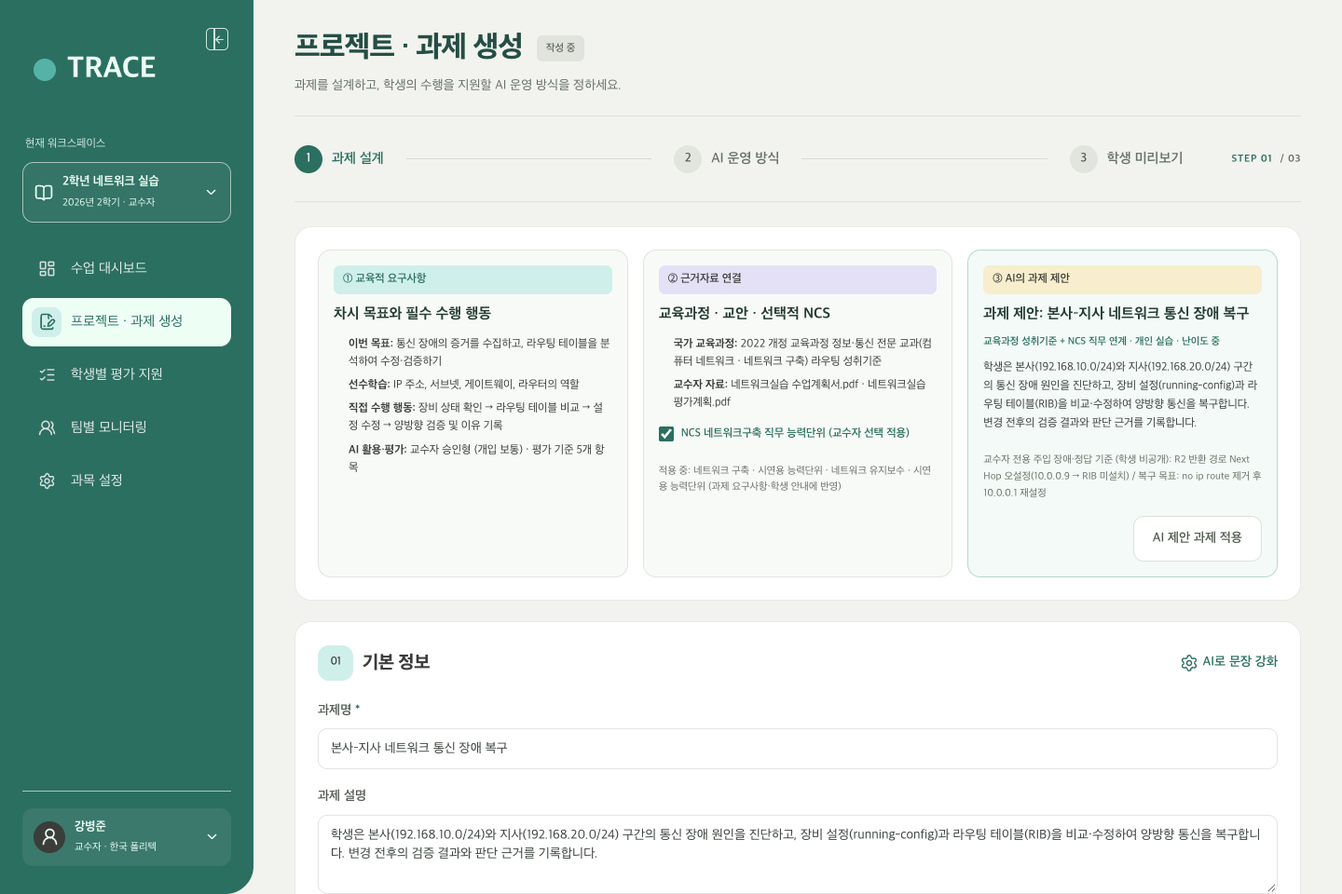
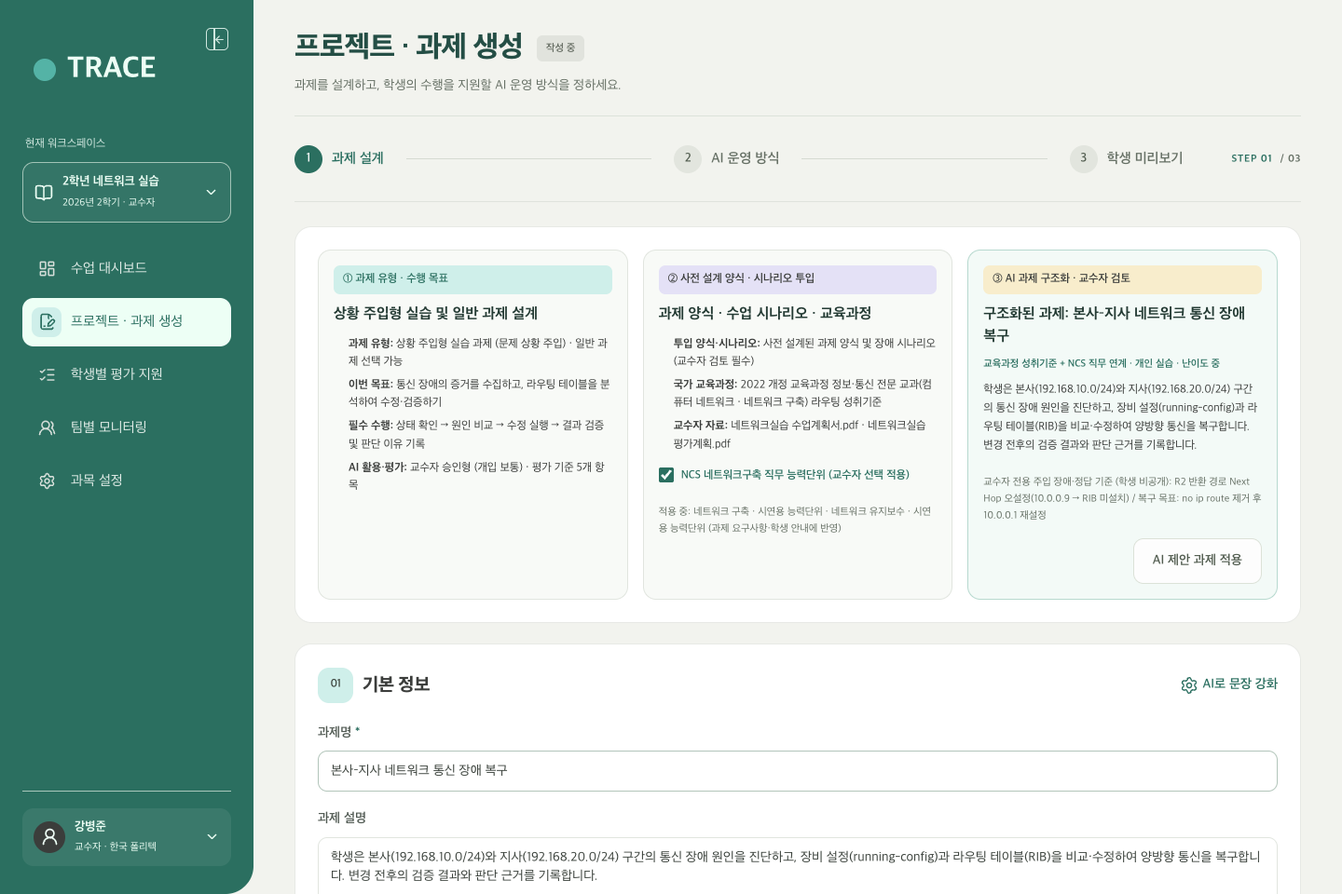
docs: update demo guide, screenshots, and assignment proposal panel UI

diff --git a/src/features/teacher/AssignmentProposalPanel.tsx b/src/features/teacher/AssignmentProposalPanel.tsx
@@ -61,17 +61,17 @@ export function AssignmentProposalPanel({
   return (
     <section className="panel design-triptych-panel" aria-label="차시 과제 설계 3단 요약">
       <div className="triptych-card">
-        <span className="teach-badge mint">① 교육적 요구사항</span>
-        <h3>차시 목표와 필수 수행 행동</h3>
+        <span className="teach-badge mint">① 과제 유형 · 수행 목표</span>
+        <h3>상황 주입형 실습 및 일반 과제 설계</h3>
         <ul className="triptych-list">
+          <li>
+            <strong>과제 유형:</strong> 상황 주입형 실습 과제 (문제 상황 주입) · 일반 과제 선택 가능
+          </li>
           <li>
             <strong>이번 목표:</strong> {lessonOverview.objective}
           </li>
           <li>
-            <strong>선수학습:</strong> {lessonOverview.prerequisite}
-          </li>
-          <li>
-            <strong>직접 수행 행동:</strong> 장비 상태 확인 → 라우팅 테이블 비교 → 설정 수정 → 양방향 검증 및 이유 기록
+            <strong>필수 수행:</strong> 상태 확인 → 원인 비교 → 수정 실행 → 결과 검증 및 판단 이유 기록
           </li>
           <li>
             <strong>AI 활용·평가:</strong> {a.mode} (개입 {a.intervention}) · 평가 기준 {a.criteria.length}개 항목
@@ -79,9 +79,12 @@ export function AssignmentProposalPanel({
         </ul>
       </div>
       <div className="triptych-card">
-        <span className="teach-badge lavender">② 근거자료 연결</span>
-        <h3>교육과정 · 교안 · 선택적 NCS</h3>
+        <span className="teach-badge lavender">② 사전 설계 양식 · 시나리오 투입</span>
+        <h3>과제 양식 · 수업 시나리오 · 교육과정</h3>
         <ul className="triptych-list">
+          <li>
+            <strong>투입 양식·시나리오:</strong> 사전 설계된 과제 양식 및 장애 시나리오 (교수자 검토 필수)
+          </li>
           <li>
             <strong>국가 교육과정:</strong> {lessonOverview.curriculumBasis}
           </li>
@@ -100,12 +103,12 @@ export function AssignmentProposalPanel({
         <small className="micro-note">
           {ncsLinked
             ? `적용 중: ${course.ncs.join(' · ')} (과제 요구사항·학생 안내에 반영)`
-            : '미적용: 국가 교육과정 성취기준만 기본 근거로 사용합니다.'}
+            : '미적용: 국가 교육과정 성취기준과 교수자 과제 양식을 기본 근거로 사용합니다.'}
         </small>
       </div>
       <div className="triptych-card proposal-card">
-        <span className="teach-badge yellow">③ AI의 과제 제안</span>
-        <h3>과제 제안: {dynamicProposal.title}</h3>
+        <span className="teach-badge yellow">③ AI 과제 구조화 · 교수자 검토</span>
+        <h3>구조화된 과제: {dynamicProposal.title}</h3>
         <small className="proposal-condition-tag">{dynamicProposal.conditionBadge}</small>
         <p>{dynamicProposal.description}</p>
         <small className="micro-note">{dynamicProposal.teacherOnlyNote}</small>

diff --git a/docs/demo_video_guide.md b/docs/demo_video_guide.md
@@ -1,138 +1,139 @@
-# TRACE 5분 경진대회 발표 · GIF 중심 시연 사진·대본 가이드 (네트워크 전문용어 제거판)
+# TRACE 플랫폼 작동 시연 가이드 (PPT 삽입용 이미지·GIF·발표 대본)
 
-> **2026 한국실천공학교육학회 교육장비 개발 및 아이디어 경진대회 (5분 발표 맞춤)**
-> - **발표자 배려 원칙**: 네트워크 전문 용어(`Next Hop`, `RIB`, `라우팅 테이블`, `IP 대역` 등)를 대본에서 **전면 제거**했습니다.
-> - **핵심 전달 메시지**: *"어떤 상황에서 · 누가(교수자/학생) · 이 플랫폼에 무엇을 넣고 어떻게 활용하는가"* 만으로 1분 40초 안에 시연을 끝내는 **4단계 GIF 중심 스토리보드**입니다.
+발표 중 **네트워크 실습을 예시로 실제 플랫폼(시스템)이 어떻게 작동하는지 보여주는 시연 파트** 자료입니다.  
+각 단계별로 **누가 · 어떤 상황에서 · 플랫폼에 무엇을 넣고 어떻게 활용하는지** 순서대로 구성되어 있습니다.
 
 ---
 
-## 0. 배포 사이트 QR코드 (`https://learning.aihous.site/`)
+## 시연 파트 4단계 요약
 
-PPT 마지막 슬라이드(Q&A 화면)나 현장 부스 테이블(`1200×600mm`) 안내판에 바로 붙여 넣을 수 있는 QR코드입니다.
+| 단계 | 주체 | 플랫폼 작동 핵심 | 사용 시각 자료 |
+| :--- | :--- | :--- | :--- |
+| **STEP 1** | **교수자** (수업 준비) | 미리 설계된 **과제 양식·수업 시나리오**와 교육과정 자료를 넣으면, AI가 이를 **과제 명세로 구조화**해 보여주고 교수자가 검토·확정함 *(상황 주입형 과제 / 일반 과제 지원)* | `gif-01-teacher-design.gif`<br>`02a`, `02b` |
+| **STEP 2** | **학생** (과제 수행) | 실습 중 막혀서 AI에게 **"그냥 해줘(정답 요구)"** 라고 해도 이를 차단하고, **교육 목표를 달성할 수 있는 점검 순서와 방향**으로 유도함 | `gif-02a-ai-popover-closeup.gif`<br>`gif-03-student-cli-recovery.gif`<br>`03b0`, `03b`, `03c`, `04c` |
+| **STEP 3** | **교수자** (수업 중) | 학생들의 **실시간 수행 상태와 AI 도움 요청 빈도**를 확인하며, 그 상태를 토대로 **수업 난이도(AI 힌트 허용 범위)를 조절**함 | `05a`, `02b` |
+| **STEP 4** | **교수자** (평가·지도) | 수행 이후 축적된 **정량적 학습 증거(실행 기록·판단 이유·AI 도움 횟수/수준)** 를 평가 근거로 삼고, **학생 개인별 맞춤 지도 자료**로 활용함 | `gif-04-teacher-evidence-review.gif`<br>`06a1`, `06a2`, `06b` |
 
-| PPT 엔딩 슬라이드·부스 안내판용 배너 카드 (`qr-card-learning-aihous-site.png`) | 단독 정사각형 QR코드 (`qr-learning-aihous-site.png`) |
+---
+
+## STEP 1. [교수자] 사전 설계 양식·시나리오 투입 및 과제 생성
+
+### 핵심 포인트 (슬라이드 설명 기준)
+- **사전 설계 양식 기반 구조화**: 교수자가 막연하게 "아무 과제나 만들어달라"고 요청하는 방식이 아닙니다. 교수자가 **미리 설계된 과제 양식(템플릿)과 국가 교육과정·NCS 자료**를 넣으면(혹은 수업 시나리오를 넣고 교수자가 사전 검토를 거치면), AI가 이를 **학생 배포용 과제 안내문, 단계별 수행 조건, 평가 기준**으로 구조화하여 보여줍니다.
+- **과제 유형 구분 (상황 주입형 vs 일반 과제)**:
+  - **상황 주입형 실습 과제**: 이번 네트워크 예시처럼 실습 환경에 의도된 오류·문제 상황을 미리 주입해 두고, 학생이 원인을 찾아 해결하게 하는 과제입니다. (주입한 문제 정답 기준은 교수자 화면에만 표시되고 학생 안내문에서는 자동 분리됩니다.)
+  - **일반 과제**: 별도의 오류 주입 없이 개념 탐색, 보고서·산출물 양식 작성, 개인·팀 프로젝트를 수행하는 일반 과제도 동일하게 생성할 수 있습니다.
+
+### 🎤 발표 대본
+> "먼저 교수자가 수업을 준비하며 과제를 만드는 화면입니다.  
+> 교수자가 미리 설계된 과제 양식과 교육과정·NCS 기준 자료를 플랫폼에 넣으면, AI가 이를 바탕으로 학생에게 안내할 과제 설명과 수행 조건을 구조화해서 보여줍니다. 시나리오만 넣는 경우에도 교수자가 생성된 과제와 정답 기준을 반드시 사전 검토한 뒤 확정하도록 설계되어 있습니다.  
+> 또한 과제 성격에 따라 일반 보고서·산출물 중심의 **일반 과제**를 낼 수도 있고, 지금 보시는 네트워크 실습 예시처럼 실습 환경에 특정 문제 상황을 미리 심어두는 **상황 주입형 과제**를 선택할 수도 있습니다.  
+> 과제를 확정한 뒤에는, 학생이 수행 과정에서 AI에게 정답만 바로 얻어가지 못하도록 AI가 어느 수준까지 힌트를 줄지 지원 범위를 설정합니다."
+
+### 🎬 동작 화면 GIF (`gif-01-teacher-design.gif`)
+![교수자 과제 설계 및 AI 운영 정책 설정 GIF](./screenshots/demo/gif-01-teacher-design.gif)
+
+### 🖼 슬라이드 삽입용 확대 이미지
+
+| ① 과제 유형(상황 주입형/일반) 및 사전 설계 양식 투입 (`02a`) | ② AI 지원 범위 및 가이드 단계 설정 (`02b`) |
 | :---: | :---: |
-| ![TRACE 배포 사이트 QR 배너 카드](./screenshots/demo/qr-card-learning-aihous-site.png) | ![TRACE 배포 사이트 QR코드](./screenshots/demo/qr-learning-aihous-site.png) |
-| **용도**: PPT 마지막 장 하단 / 현장 부스 거치대 인쇄용 | **용도**: PPT 슬라이드 우측 상단 고정 배지용 ([SVG 벡터 원본](./screenshots/demo/qr-learning-aihous-site.svg)) |
+| ![사전 설계 양식 투입 및 AI 과제 구조화](./screenshots/demo/02a-triptych-crop.png) | ![AI 운영 정책 설정](./screenshots/demo/02b-ai-policy-crop.png) |
+| 사전 설계된 과제 양식·시나리오 투입 후 교수자 검토를 거쳐 과제 적용 (학생 안내와 교수자용 정답 자동 분리) | 확인 질문 · 탐색 방향 안내 · 개념 힌트 · 도구 활용 힌트 4단계 설정 |
 
 ---
 
-## 1. 5분 발표 전체 타임라인 (모션그래픽 오프닝 + 본 발표 + 4단계 시연)
+## STEP 2. [학생] '막 해줘' 방지 및 교육 목표 달성 방향 유도
 
-| 순서 | 시간 | 구간 | 핵심 내용 | 화면 구성 |
-| :--- | :--- | :--- | :--- | :--- |
-| **오프닝** | `0:00–0:15` (15초) | **인트로 모션그래픽** | 일반 생성형 AI는 정답 코드를 바로 줘서 학생이 '복붙'하지만, **TRACE는 스스로 풀도록 방향만 제시**함 | `preview_0-7s.mp4` 재생 |
-| **도입** | `0:15–1:40` (1분 25초) | **문제제기 및 플랫폼 개요** | AI 시대 실습 교육의 두 가지 문제(학생의 무분별한 정답 의존, 교수자의 과정 평가 불가)와 TRACE 해결 구조 | 기존 PPT 앞부분 |
-| **STEP 1** | `1:40–2:05` (25초) | **[교수자] 교육자료 투입 및 과제 생성** | 교수자가 **국가 교육과정·직무능력표준(NCS) 자료**를 선택해 넣으면 맞춤형 실습 과제와 AI 가이드 기준이 생성됨 | `gif-01` + `02a`, `02b` |
-| **STEP 2** | `2:05–2:35` (30초) | **[학생] '막 해줘' 방지 및 목표 달성 유도** | 학생이 **"그냥 정답 알려줘"** 라고 해도 AI가 차단하고 점검 순서를 질문하여 **교육 목표 달성 방향으로 유도**함 | `gif-02a`, `gif-03` + `03b`, `04c` |
-| **STEP 3** | `2:35–2:55` (20초) | **[교수자] 수행 상태 기반 난이도 조절** | 학생들의 **실시간 수행 상태와 AI 질문 빈도**를 보며 교수자가 **과제 난이도(AI 힌트 범위)를 조절**함 | `05a` + `02b` |
-| **STEP 4** | `2:55–3:20` (25초) | **[교수자] 정량적 증거 평가 및 개인 지도** | 수행 후 **정량적 학습 증거(실행 횟수·판단 이유·AI 도움 수준)** 를 근거로 평가하고 **개인 맞춤 지도 자료**로 활용함 | `gif-04` + `06a1`, `06a2`, `06b` |
-| **마무리** | `3:20–4:30` (1분 10초) | **타 플랫폼 대비 차별성 및 기대효과** | 교수자 주도권 · 정답 복붙 차단 · 정량적 과정 증거 기반 개인 지도 원스톱 연결 강조 + 배포 사이트 QR 안내 | 차별성 요약표 + QR 카드 |
+### 핵심 포인트 (슬라이드 설명 기준)
+- **무분별한 정답 요구 차단**: 학생이 실습 도중 막혀서 우측 하단 1:1 AI 지원 창에 *"잘 안 되는데 정답 알려줘"* 라고 요청해도, AI는 정답이나 해결 명령어를 바로 제시하지 않습니다.
+- **교육 목표 달성 유도**: 대신 교수자가 설정한 교육 목표를 달성할 수 있도록 *"어느 구간부터 먼저 확인해 볼까요?"* 와 같이 점검 순서와 생각할 거리를 단계별로 질문합니다.
+- **직접 검증 및 이유 기록**: 학생은 AI가 유도한 방향을 따라 실습 도구에서 직접 문제를 해결·검증하고, 본인이 왜 그렇게 판단했는지 이유를 작성해 제출합니다.
 
----
+### 🎤 발표 대본
+> "다음은 이 과제를 수행하는 학생의 화면입니다.  
+> 학생이 실습을 진행하다 막히면 우측 하단에 있는 1:1 개인 AI 지원 창을 열어 도움을 요청할 수 있습니다. 이때 학생이 '그냥 정답을 알려달라'고 요구하더라도, 플랫폼의 AI는 정답을 바로 알려주지 않습니다.  
+> 대신 잠시 학생의 현재 실습 상태를 확인한 뒤, 이번 수업의 교육 목표를 달성할 수 있도록 무엇부터 차례대로 점검해야 하는지 탐색 방향을 질문하며 유도합니다.  
+> 학생은 이 가이드를 따라 직접 실습 도구를 조작해 문제를 해결하고, 마지막에는 자신이 어떤 근거로 문제를 해결했는지 판단 이유를 직접 기록해야 과제가 마무리됩니다."
 
-## 2. 시연 4단계 (`STEP 1 ~ 4`) 슬라이드용 GIF · 사진 · 대본
+### 🎬 동작 화면 GIF (`gif-02a`, `gif-03`)
 
-### STEP 1 (`25초`): [교수자] 어떤 자료를 넣고 어떻게 과제를 만드는가
-
-#### 🎤 발표 대본 (네트워크 용어 없음 · 그대로 읽기)
-> "먼저 수업 전 **교수자 화면**입니다.  
-> 교수자가 왼쪽에서 **국가 교육과정 성취기준과 직무능력표준(NCS) 자료**를 선택해 넣으면, 플랫폼이 이번 시간에 달성해야 할 **실습 과제와 시나리오를 자동으로 설계**해 줍니다.  
-> 이때 학생에게 나가는 과제 안내문에는 교수자용 정답이 자동으로 숨겨지고, 교수자는 학생들이 AI에게 정답만 얻어가지 못하도록 **AI가 어디까지 힌트를 줄지 지원 범위**를 미리 설정합니다."
-
-#### 🎬 메인 GIF (`gif-01-teacher-setup.gif`)
-![교수자 자료 투입 및 과제·AI 정책 생성 GIF](./screenshots/demo/gif-01-teacher-setup.gif)
-
-#### 🖼 함께 배치할 확대 사진 (PNG)
-
-| ① 교육과정·NCS 자료 선택 → AI 과제 자동 설계 (`02a`) | ② AI 지원 범위(난이도·가이드 단계) 설정 (`02b`) |
+| ① 1:1 AI가 정답 요구를 막고 탐색 방향을 유도하는 장면 (`gif-02a`) | ② 학생이 가이드를 따라 직접 실습 도구를 조작·검증하는 장면 (`gif-03`) |
 | :---: | :---: |
-| ![교육자료 투입 및 과제 생성](./screenshots/demo/02a-triptych-crop.png) | ![AI 지원 정책 설정](./screenshots/demo/02b-ai-policy-crop.png) |
-| **좌측**: 투입할 교육과정·NCS 자료 선택 / **우측**: 생성된 과제 (학생 안내와 교수자 정답 자동 분리) | 확인 질문 · 탐색 방향 안내 · 개념 힌트 · 도구 활용 힌트 4단계 제어 |
+| ![1:1 AI 코칭 클로즈업 GIF](./screenshots/demo/gif-02a-ai-popover-closeup.gif) | ![학생 실습 수행 및 검증 GIF](./screenshots/demo/gif-03-student-cli-recovery.gif) |
 
----
+### 🖼 슬라이드 삽입용 확대 이미지
 
-### STEP 2 (`30초`): [학생] '막 해줘'를 방지하고 교육 목표 달성으로 유도하는 과정
-
-#### 🎤 발표 대본 (네트워크 용어 없음 · 그대로 읽기)
-> "다음은 과제를 받은 **학생의 실습 화면**입니다.  
-> 학생이 실습을 하다 막혀서 우측 하단 1:1 AI 도우미에게 **'잘 안 되는데 그냥 정답 알려줘'** 라고 요청합니다.  
-> 하지만 TRACE의 AI는 정답을 바로 알려주지 않습니다. 잠시 학생의 실습 상태를 확인한 뒤, 교수자가 설정한 교육 목표를 달성할 수 있도록 **'무엇부터 차례대로 점검해 볼까요?'** 하고 탐색 방향을 질문합니다.  
-> 학생은 이 가이드를 따라 스스로 실습 도구를 조작해 문제를 해결하고, 마지막으로 **자신이 왜 그렇게 판단했는지 이유를 적어야만** 과제를 제출할 수 있습니다."
-
-#### 🎬 메인 GIF 2종 (AI 코칭 `gif-02a` + 학생 실습 수행 `gif-03`)
-
-| ① 1:1 AI가 '정답 해줘'를 막고 방향을 유도하는 장면 (`gif-02a`) | ② 학생이 가이드를 따라 직접 실습·검증하는 장면 (`gif-03`) |
-| :---: | :---: |
-| ![1:1 AI 코칭 클로즈업 GIF](./screenshots/demo/gif-02a-ai-popover-closeup.gif) | ![학생 스스로 실습 및 검증 GIF](./screenshots/demo/gif-03-student-cli-recovery.gif) |
-
-#### 🖼 함께 배치할 확대 사진 (PNG)
-
-| ① AI 생각 애니메이션 (`03b0`) | ② 1차 유도: 점검 순서 질문 (`03b`) | ③ 2차 유도: 원인 탐색 질문 (`03c`) |
+| ① 실습 맥락 확인 대기 (`03b0`) | ② 1차 유도: 점검 순서 질문 (`03b`) | ③ 2차 유도: 원인 탐색 질문 (`03c`) |
 | :---: | :---: | :---: |
 | ![AI 답변 준비 중](./screenshots/demo/03b0-ai-thinking-crop.png) | ![1차 질문 코칭](./screenshots/demo/03b-ai-popover-q1-crop.png) | ![2차 질문 코칭](./screenshots/demo/03c-ai-popover-q2-crop.png) |
-| 학생의 현재 실습 맥락을 확인하는 1초 대기 효과 | 정답 요구를 차단하고 첫 점검 단계를 질문 | 학생이 확인한 결과를 바탕으로 다음 생각할 지점 유도 |
+| 질문 직후 학생의 실습 상태를 확인하는 상태 표시 | 정답 제시 대신 첫 번째 점검 순서를 스스로 생각하게 유도 | 학생이 확인한 결과를 바탕으로 다음 점검 지점 유도 |
 
-#### ④ 학생이 스스로 해결한 뒤 판단 이유를 기록하는 영역 (`04c`)
+#### ④ 학생이 직접 검증을 마친 뒤 자신의 판단 근거를 기록하는 화면 (`04c`)
 ![학생 판단 이유 작성](./screenshots/demo/04c-student-reflection-crop.png)
 
 ---
 
-### STEP 3 (`20초`): [교수자] 실시간 수행 상태를 토대로 난이도를 조절하는 과정
+## STEP 3. [교수자] 수행 상태 확인 및 실시간 난이도 조절
 
-#### 🎤 발표 대본 (네트워크 용어 없음 · 그대로 읽기)
-> "학생들이 실습하는 동안, **교수자는 실시간 모니터링 화면**에서 각 학생이 어느 단계에 머물러 있는지, 그리고 AI에게 몇 번이나 도움을 요청했는지를 한눈에 파악합니다.  
-> 만약 학생들이 특정 구간에서 너무 많이 막혀 있거나 반대로 너무 쉽게 넘어간다면, 교수자는 이 **수행 상태 데이터를 토대로 AI가 허용하는 힌트 단계를 넓히거나 좁혀서 수업 난이도를 실시간으로 조절**할 수 있습니다."
+### 핵심 포인트 (슬라이드 설명 기준)
+- **수행 상태 실시간 파악**: 학생들이 과제를 수행하는 동안, 교수자는 모니터링 표에서 학생별 진행 단계(진단 전, 원인 분석 중, 검증 완료 등)와 AI 개입 신호(질문 횟수·힌트 단계)를 실시간으로 확인합니다.
+- **수행 상태 기반 난이도 조절**: 학생들이 특정 단계에서 과도하게 막혀 있거나 반대로 너무 쉽게 해결하는 경우, 교수자는 이 수행 상태를 바탕으로 AI가 허용하는 힌트 단계나 개입 수준을 조정해 수업 난이도를 유연하게 조절합니다.
 
-#### 🖼 슬라이드 배치용 확대 사진 (PNG)
+### 🎤 발표 대본
+> "학생들이 과제를 수행하는 동안, 교수자는 모니터링 화면에서 각 학생이 어느 단계에 머물러 있는지, 그리고 AI에게 몇 번이나 도움을 요청했는지를 실시간으로 확인합니다.  
+> 만약 다수의 학생이 특정 구간에서 계속 막혀 있거나 반대로 너무 쉽게 넘어간다면, 교수자는 이 수행 상태를 토대로 AI가 제공하는 힌트의 허용 범위를 넓히거나 좁혀서 과제 난이도를 상황에 맞게 조절할 수 있습니다."
+
+### 🖼 슬라이드 삽입용 확대 이미지
 
 #### ① 학생별 실시간 수행 상태 및 AI 개입 신호 관찰 표 (`05a`)
 ![학생별 실시간 수행 상태 관찰 표](./screenshots/demo/05a-student-table-crop.png)
 
-#### ② 수행 상태를 바탕으로 교수자가 조절하는 AI 지원 난이도 설정 패널 (`02b`)
+#### ② 수행 상태에 따라 교수자가 힌트 허용 범위(난이도)를 조절하는 화면 (`02b`)
 ![AI 지원 난이도 조절 패널](./screenshots/demo/02b-ai-policy-crop.png)
 
 ---
 
-### STEP 4 (`25초`): [교수자] 정량적 증거 기반 평가 및 학생 개인 맞춤 지도 활용
+## STEP 4. [교수자] 정량적 학습 증거 기반 평가 및 개인 맞춤 지도 활용
 
-#### 🎤 발표 대본 (네트워크 용어 없음 · 그대로 읽기)
-> "마지막으로 실습이 끝난 뒤 **교수자의 평가 및 학생 지도 화면**입니다.  
-> 교수자는 최종 결과물 하나만 보고 채점하지 않습니다. 플랫폼이 수행 과정에서 자동으로 모아 둔 **객관적·정량적 학습 증거**—즉 **① 학생이 실제로 시도한 실습 로그, ② 학생 본인이 작성한 판단 이유, ③ AI 힌트를 몇 번, 어느 수준까지 사용했는지에 대한 정량 지표**—를 한 화면에서 대조해 평가의 근거로 삼습니다.  
-> 나아가 하단의 **AI 추천 지도 노트**를 통해, 각 학생이 어디서 어려움을 겪었는지 정리된 **개인별 맞춤 지도 자료**를 즉시 생성해 사후 지도에 활용합니다."
+### 핵심 포인트 (슬라이드 설명 기준)
+- **정량적·과정적 학습 증거 통합**: 실습 종료 후 교수자는 최종 결과물 하나만 보고 채점하지 않고, 플랫폼에 자동 기록된 **① 실제 실습 실행 기록(시도 횟수·성공 여부), ② 학생이 작성한 판단 이유, ③ 정량적 AI 활용 지표(질문 횟수·제공된 힌트 단계)** 를 근거로 평가합니다.
+- **학생 개인 지도 자료 활용**: 수집된 학습 증거를 바탕으로 **AI 추천 지도 노트**가 생성되어, 교수자가 각 학생의 취약 지점을 짚어주는 **개인별 맞춤 지도 자료**로 즉시 활용할 수 있습니다.
 
-#### 🎬 메인 GIF (`gif-04-teacher-evidence-review.gif`)
+### 🎤 발표 대본
+> "마지막으로 과제 수행이 끝난 뒤 교수자의 평가 및 지도 화면입니다.  
+> 교수자는 최종 제출물 하나만으로 평가하지 않고, 수행 과정에서 자동으로 기록된 정량적 증거들을 함께 확인합니다. 학생이 실제로 몇 번 시도해 어떻게 검증했는지 보여주는 실행 원자료, 학생 본인이 작성한 판단 이유, 그리고 AI 도움을 총 몇 회, 어느 단계까지 받았는지에 대한 정량 지표를 종합해 공정한 평가의 근거로 삼습니다.  
+> 또한 이 기록을 바탕으로 학생마다 어느 부분에서 막혔고 다음에 무엇을 보완해야 하는지 정리된 지도 노트가 생성되어, 학생 개인별 맞춤 지도 자료로 바로 활용할 수 있습니다."
+
+### 🎬 동작 화면 GIF (`gif-04-teacher-evidence-review.gif`)
 ![교수자 정량적 증거 확인 및 개인 지도 노트 적용 GIF](./screenshots/demo/gif-04-teacher-evidence-review.gif)
 
-#### 🖼 함께 배치할 확대 사진 (PNG)
+### 🖼 슬라이드 삽입용 확대 이미지
 
-| ① 학생 수행 증거 (실제 실습 기록 + 학생 판단 이유) (`06a1`) | ② 정량적 AI 지원 지표 요약 + 교수자 평가 확정 (`06a2`) |
+| ① 학생 수행 증거: 실제 실행 기록 + 학생 판단 이유 (`06a1`) | ② 정량적 AI 지원 지표 요약 + 교수자 평가 확인 (`06a2`) |
 | :---: | :---: |
 | ![학습 증거 학생 파트](./screenshots/demo/06a1-evidence-student-crop.png) | ![학습 증거 교수자 파트](./screenshots/demo/06a2-evidence-teacher-crop.png) |
-| 학생이 직접 수행한 전체 실행 기록과 본인의 판단 근거 | **질문 2회 · 탐색 방향 안내** 등 정량적 AI 활용 지표와 교수자 확인 메모 |
+| 학생이 실습 도구에서 수행한 전체 실행 기록과 직접 작성한 판단 이유 | **질문 2회 · 탐색 방향 안내** 등 정량적 AI 활용 지표와 교수자 확인 메모 |
 
-#### ③ 학생 개인별 맞춤 지도 자료로 활용하는 AI 추천 지도 노트 (`06b`)
+#### ③ 학생 개인별 맞춤 지도 자료로 활용하는 지도 노트 (`06b`)
 ![학생 개인 맞춤 지도 노트](./screenshots/demo/06b-guidance-note-crop.png)
 
 ---
 
-## 3. 경진대회 타 참가팀 대비 차별점 & 비전공 발표자용 방어 Q&A
+## 부록 1. 배포 사이트 QR코드 (`https://learning.aihous.site/`)
 
-이번 학회 경진대회에 **AI 피드백·과정평가·실습 보조(Lab-TA)** 주제가 다수 참가하므로, 발표 마무리와 질의응답에서 아래 3가지를 강조하면 확실하게 차별화됩니다.
+PPT 마지막 장이나 현장 부스 안내판에 배치할 수 있는 실제 배포 사이트 접속 QR코드입니다.
 
-### 3-1. 유사 AI 교육 작품 대비 TRACE만의 3대 핵심 차별점
+| PPT 엔딩·부스 안내판용 배너 카드 (`qr-card-learning-aihous-site.png`) | 단독 정사각형 QR코드 (`qr-learning-aihous-site.png`) |
+| :---: | :---: |
+| ![TRACE 배포 사이트 QR 배너 카드](./screenshots/demo/qr-card-learning-aihous-site.png) | ![TRACE 배포 사이트 QR코드](./screenshots/demo/qr-learning-aihous-site.png) |
+| [배너 카드 원본 열기](./screenshots/demo/qr-card-learning-aihous-site.png) | [PNG 원본](./screenshots/demo/qr-learning-aihous-site.png) · [SVG 벡터 원본](./screenshots/demo/qr-learning-aihous-site.svg) |
 
-| 비교 기준 | 일반 AI 챗봇 / 타 AI 학습 도우미 | **TRACE 플랫폼 (우리 팀)** |
-| :--- | :--- | :--- |
-| **1. 과제·가이드 통제권** | AI가 임의로 문제를 내거나 힌트 수위를 결정함 | **교수자가 국가 교육과정·NCS 자료를 투입**하고, **실시간 수행 상태에 맞춰 난이도(AI 힌트 범위)를 직접 조절**함 |
-| **2. '정답 해줘' 방지 방식** | 채팅창에서 프롬프트로만 막아 우회 질문 시 정답 노출 | **실습 도구와 1:1 코칭이 한 화면에 결합**되어, 학생이 직접 실습을 통과하고 판단 이유를 적기 전까지 완료 불가 |
-| **3. 평가 및 사후 지도** | 대화 로그만 남거나 단순 정오답 점수만 부여 | **실습 기록 + 학생 설명 + 정량적 AI 도움 횟수/수준**을 묶어 **채점 근거**로 쓰고, 즉시 **학생 개인별 지도 노트**로 변환 |
+---
 
-### 3-2. 발표자 안심 Q&A (네트워크 질문 완전 방어 스크립트)
+## 부록 2. 질의응답(Q&A) 핵심 답변 가이드
 
-| 심사위원 질문 유형 | 발표자 답변 스크립트 (그대로 답변 가능) |
+| 예상 질문 | 답변 요지 |
 | :--- | :--- |
-| **Q1. 화면에 나온 네트워크 실습 내용이나 명령어는 어떤 의미인가요?** | *"네, 화면 속 네트워크 장애 복구는 저희 플랫폼이 실제 직업계고·대학 실습 수업에서 어떻게 작동하는지 보여드리기 위해 탑재한 **예시 시나리오**입니다. 저희 연구의 핵심은 특정 네트워크 기술이 아니라, **어떤 전공 실습이든 교수자가 교육과정 자료를 넣으면 ① 정답 요구 방지 유도 → ② 수행 상태 기반 난이도 조절 → ③ 정량적 증거 기반 평가 및 개인 지도**가 하나로 이어지는 **플랫폼 구조**에 있습니다."* |
-| **Q2. 다른 AI 학습 보조 시스템(Lab-TA, 단계별 피드백 등)과 가장 큰 차이는 무엇인가요?** | *"많은 AI 튜터가 '학생과 AI의 대화'에만 집중할 때, TRACE는 **교수자의 수업 운영과 평가 근거 확보**를 중심에 두었습니다. 교수자가 수업 중 학생들의 수행 상태를 보며 **AI 개입 난이도를 실시간 조절**할 수 있고, 수행 후에는 **AI 도움을 몇 번·어느 수준으로 받았는지 정량적 증거**를 남겨 공정한 평가와 개인 지도에 바로 쓸 수 있다는 점이 가장 큰 차별점입니다."* |
-| **Q3. 정량적 증거라고 했는데 구체적으로 어떤 지표가 남나요?** | *"크게 세 가지가 자동으로 묶여서 기록됩니다. 첫째, 학생이 실습 도구에서 **실제로 시도한 실행 횟수와 성공·실패 로그**, 둘째, **AI에게 질문한 횟수와 제공된 힌트의 단계(1~4단계 분포)**, 셋째, 학생이 직접 작성한 **판단 근거 텍스트**입니다. 교수자는 일일이 대화 전문을 다 읽지 않아도 이 요약 지표로 즉시 평가할 수 있습니다."* |
-| **Q4. 실제 교육 현장에서 바로 써볼 수 있나요?** | *"네, 현재 웹 기반으로 배포되어 있어 별도 설치 없이 태블릿이나 PC 브라우저로 즉시 접속 가능합니다. 슬라이드의 **QR코드(`https://learning.aihous.site/`)** 로 접속하시면 교수자 화면과 학생 화면을 지금 바로 전환하며 체험해 보실 수 있습니다."* |
+| **Q1. AI가 과제를 자동으로 만들면 수업 의도와 다른 문제가 나올 위험은 없나요?** | 교수자가 백지상태에서 AI에게 문제 출제를 맡기는 것이 아니라, **사전에 설계된 과제 양식(템플릿)과 수업 시나리오**를 넣으면 AI가 이를 학생 안내용 명세와 검증 단계로 구조화해 주는 방식입니다. 특히 문제 상황을 주입하는 실습 과제의 경우 **교수자가 주입 조건과 정답 기준을 사전 검토·승인**한 뒤에만 배포됩니다. |
+| **Q2. 화면에 나온 네트워크 실습 외에 다른 수업이나 일반 과제에도 쓸 수 있나요?** | 네, 이번 시연의 네트워크 실습은 플랫폼 작동을 보여드리기 위한 하나의 예시일 뿐입니다. 실습 환경에 오류를 심어두는 **상황 주입형 과제**뿐 아니라, 일반 전공 이론·보고서·산출물 양식을 제출하는 **일반 과제**도 동일하게 지원하도록 설계되어 있습니다. |
+| **Q3. 평가에 사용하는 정량적 증거에는 구체적으로 무엇이 포함되나요?** | ① 실습 도구에서의 **실제 실행 시도 횟수 및 전후 검증 통과 여부**, ② **AI에게 도움을 요청한 횟수와 사용된 힌트 단계(1~4단계 분포)**, ③ 학생이 직접 서술한 **판단 근거** 세 가지가 함께 기록됩니다. 이를 통해 결과물만 제출했을 때 알 수 없던 수행 과정을 객관적으로 평가하고 개인 지도 자료로 활용할 수 있습니다. |
